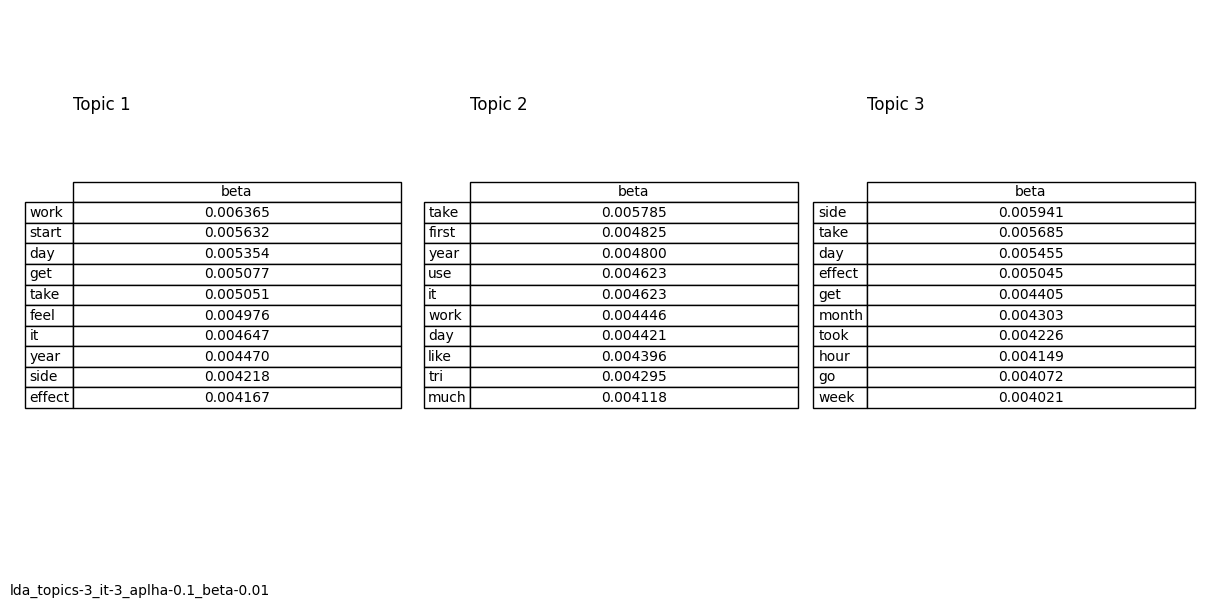
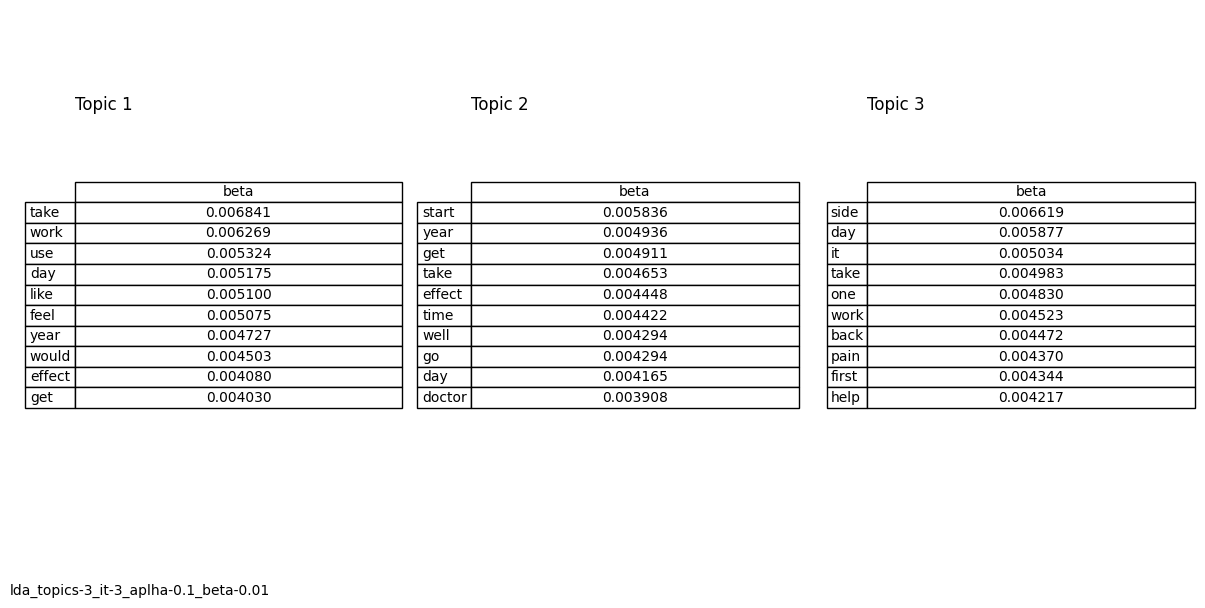
feat: add seed field to LDA yaml config parser and changed tests to support LDA seed

diff --git a/tests/test_yaml.py b/tests/test_yaml.py
@@ -103,7 +103,7 @@ class TestConfig(unittest.TestCase):
         """
         This method tests the LDAConfig class to ensure it correctly initializes with valid parameters
         and raises appropriate exceptions with invalid parameters. It verifies the attributes 'enable_traning',
-        'models_dir_path', 'topics', 'iterations', 'alpha', and 'beta' are set correctly and checks for
+        'models_dir_path', 'topics', 'iterations', 'alpha', 'beta', and 'seed' are set correctly and checks for
         ValidationError when an invalid 'topics' parameter is provided.
         """
         config = LDAConfig(
@@ -114,6 +114,7 @@ class TestConfig(unittest.TestCase):
                 "iterations": 100,
                 "alpha": 0.5,
                 "beta": 0.1,
+                "seed": 12,
             }
         )
         self.assertTrue(config.enable_traning)
@@ -122,6 +123,7 @@ class TestConfig(unittest.TestCase):
         self.assertEqual(config.iterations, 100)
         self.assertEqual(config.alpha, 0.5)
         self.assertEqual(config.beta, 0.1)
+        self.assertEqual(config.seed, 12)
 
         with self.assertRaises(ValidationError):
             LDAConfig(
@@ -132,6 +134,7 @@ class TestConfig(unittest.TestCase):
                     "iterations": 100,
                     "alpha": 0.5,
                     "beta": 0.1,
+                    "seed": 12,
                 }
             )
 
@@ -173,6 +176,7 @@ class TestConfig(unittest.TestCase):
                 "iterations": 100,
                 "alpha": 0.5,
                 "beta": 0.1,
+                "seed": 12,
             }
         )
         result_config = ResultConfig(**{"top-words": 20})
@@ -224,6 +228,7 @@ class TestConfig(unittest.TestCase):
                 "iterations": 100,
                 "alpha": 0.5,
                 "beta": 0.1,
+                "seed": 12,
             },
             "result": {"results-dir-path": "/tmp/results", "top-words": 20},
         }
@@ -244,6 +249,7 @@ class TestConfig(unittest.TestCase):
             self.assertEqual(config.lda.iterations, 100)
             self.assertEqual(config.lda.alpha, 0.5)
             self.assertEqual(config.lda.beta, 0.1)
+            self.assertEqual(config.lda.seed, 12)
             self.assertEqual(config.result.top_words, 20)
             self.assertEqual(config.result.results_dir_path, "/tmp/results")
             os.remove(temp_file.name)

diff --git a/src/config/yaml.py b/src/config/yaml.py
@@ -83,6 +83,8 @@ class LDAConfig(BaseModel):
             Specifies the alpha value for the LDA model.
         beta (float): Beta value.
             Specifies the beta value for the LDA model.
+        seed (int): random seed value.
+            To have predictable random sequences in entire fit process.
     """
 
     enable_traning: bool = Field(
@@ -95,6 +97,10 @@ class LDAConfig(BaseModel):
     iterations: int = Field(default=5, description="Number of iterations")
     alpha: float = Field(default=0.1, description="Alpha value")
     beta: float = Field(default=0.01, description="Beta value")
+    seed: int = Field(
+        default=42,
+        description="To have predictable random sequences in entire fit process.",
+    )
 
 
 class ResultConfig(BaseModel):

diff --git a/src/algorithms/lda.py b/src/algorithms/lda.py
@@ -28,6 +28,8 @@ class LDA:
             The hyperparameter for the Dirichlet prior on the per-document topic distributions.
         - beta: float, optional (default=0.01)
             The hyperparameter for the Dirichlet prior on the per-topic word distributions.
+        - random_seed: optional (default=42)
+            To have predictable random sequences in entire fit process.
         """
         self.num_topics = num_topics
         self.num_iterations = num_iterations
